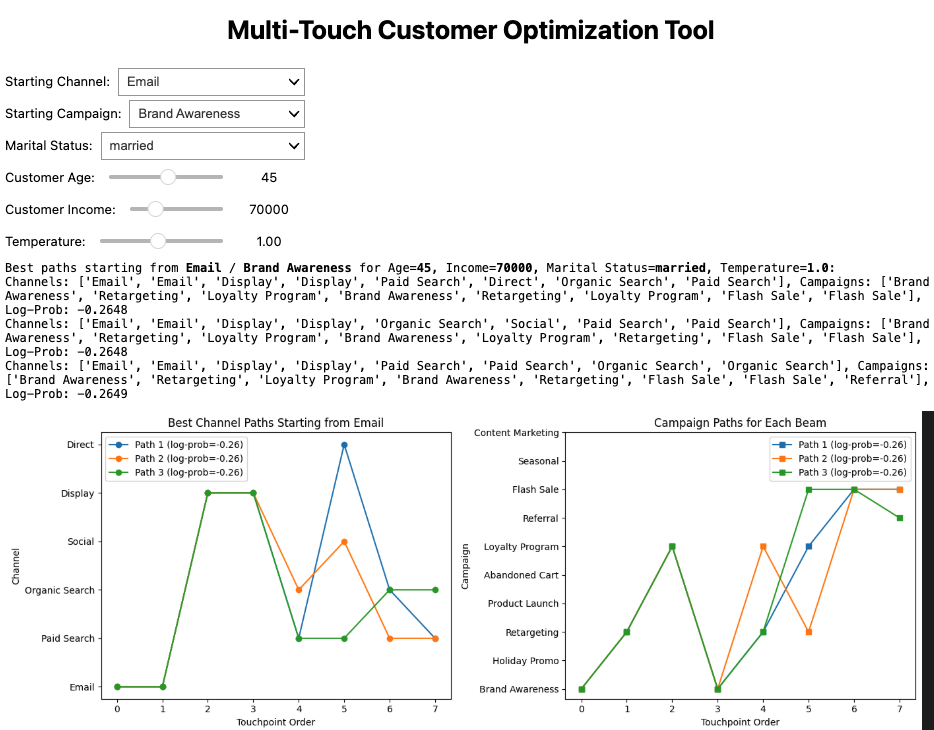
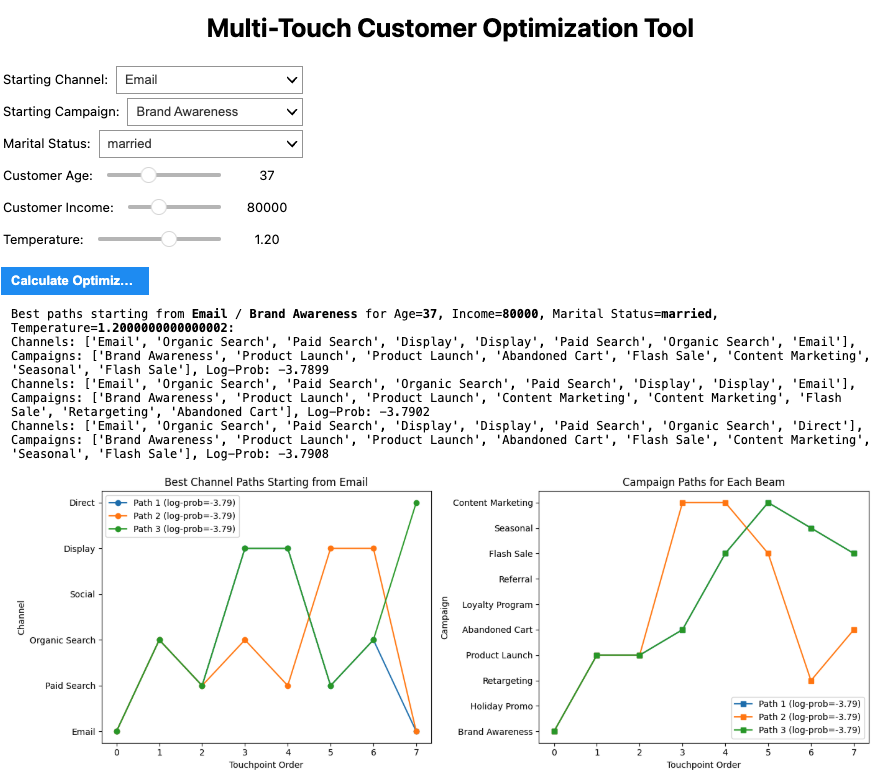
README Example UI update

diff --git a/README.md b/README.md
@@ -51,7 +51,11 @@ Campaign selection is intentionally stochastic rather than purely greedy: for ea
 
 Users can select Starting Channel, Starting Campaign, as well as Customer Age, Income, Marital Status. The Model Temperature value controls a more deterministic search (<1) or more exploratory search (>1). The results will refresh with the recommended Channel path and Campaign path that optimize liklihood of Customer Conversion.
 
+Let's say we have a customer that is 37, makes $80k, is married. We know the initial customer touchpoint is an email with a Brand Awareness campaign. We can raise the Temperature to 1.2 to encourage more exploration, then click the Calculate Optimization button: 
+
 ![Interactive UI Example](img/ipython_screenshot.png)
+
+The beam search and results are restricted to the permissible static channel_campaign_map. However, in a real-world marketing context, this channel_campaign_map might be user-specific or vary based on seasonality.
 
 ---
 
